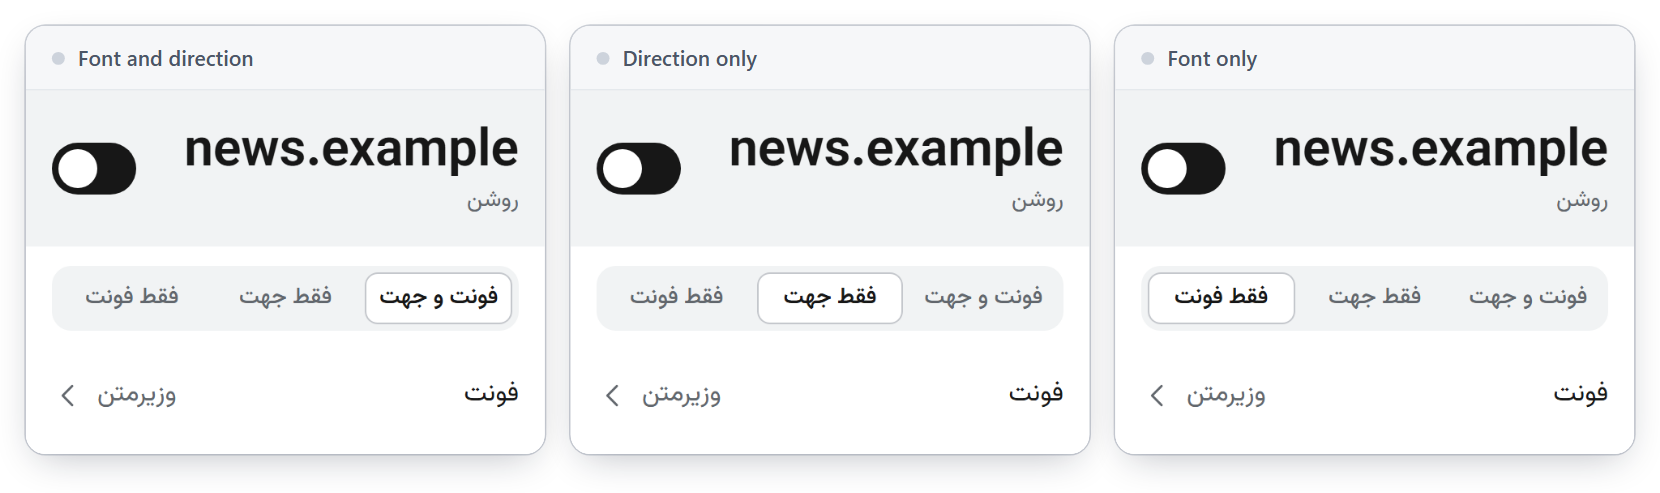
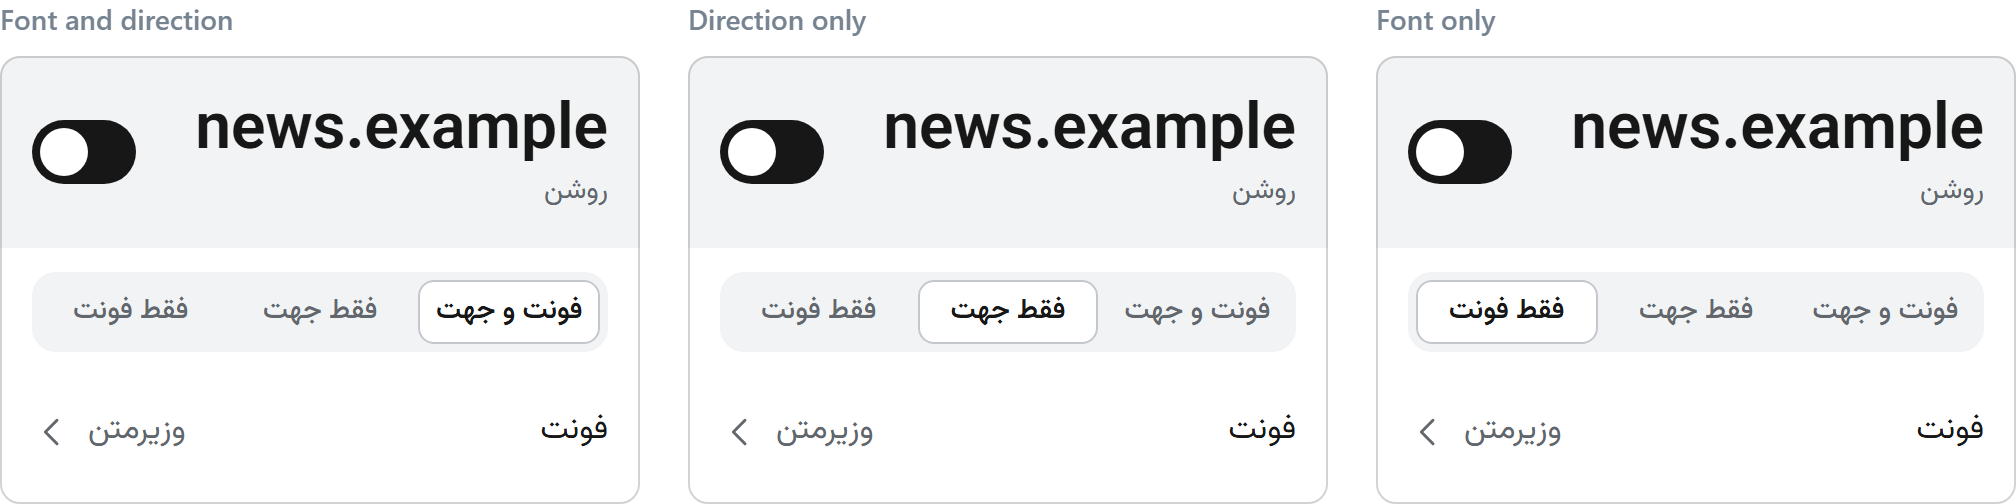
README pictures as plain screenshots: popup in three states and three limits
Each picture is a transparent PNG of real captures with a plain caption
over each one. No tinted box, side bar, shadow, arrow or header strip.
The closed shadow root picture is removed; its sentence stays.

diff --git a/README.md b/README.md
@@ -5,7 +5,7 @@ A Manifest V3 extension for Chromium. It gives Persian text on web pages the Vaz
 </p>
 
 <p align="center">
-  <img src="docs/screenshots/demo-posts.png" width="830" alt="Persian social posts that start with a Latin word and contain emoji, shown before and after the extension. Before, the posts are laid out left to right. After, they read right to left in Vazirmatn.">
+  <img src="docs/screenshots/demo-posts.png" width="640" alt="Persian social posts that start with a Latin word and contain emoji, shown before and after the extension. Before, the posts are laid out left to right. After, they read right to left in Vazirmatn.">
   <br>
   <em>Persian posts that start with a Latin word and contain emoji, before and after.</em>
 </p>
@@ -23,7 +23,7 @@ A Manifest V3 extension for Chromium. It gives Persian text on web pages the Vaz
 This chat keeps its text in open shadow roots. The picture shows its messages and the message box while typing, before and after. Each message follows its own text, and the box turns right to left once it holds Persian.
 
 <p align="center">
-  <img src="docs/screenshots/demo-chat.png" width="830" alt="A chat inside open shadow roots, with messages and a message box that holds text being typed, shown before and after the extension.">
+  <img src="docs/screenshots/demo-chat.png" width="640" alt="A chat inside open shadow roots, with messages and a message box that holds text being typed, shown before and after the extension.">
   <br>
   <em>A chat inside open shadow roots, before and after.</em>
 </p>
@@ -39,7 +39,7 @@ Click the toolbar icon to open the popup. Its switch turns the whole site off (t
 | **فقط فونت** | The font only. The site keeps its own direction. |
 
 <p align="center">
-  <img src="docs/screenshots/popup-site-control.png" width="830" alt="The extension popup. It shows the switch for the current site and, under it, a row with three parts: فونت و جهت, فقط جهت and فقط فونت.">
+  <img src="docs/screenshots/popup-site-control.png" width="1008" alt="The extension popup in its three states: font and direction, direction only, and font only. It shows the switch for the current site and, under it, a row with three parts: فونت و جهت, فقط جهت and فقط فونت.">
   <br>
   <em>The popup: the site switch and, under it, the row with three parts.</em>
 </p>
@@ -81,19 +81,19 @@ Editing source files does not change the loaded copy. After an update, run `npm 
 These pages show where the extension stops, or where it does something you may not expect.
 
 <p align="center">
-  <img src="docs/screenshots/limit-site-name.png" width="830" alt="A search results page. A site's Persian name has moved to the right end of its line, away from the site's icon.">
+  <img src="docs/screenshots/limit-site-name.png" width="400" alt="A search result without the extension and with it. With the extension, a site's Persian name has moved to the right end of its line, away from the site's icon.">
   <br>
   <em>On a search results page, a site's Persian name moves to the right end of its line, away from the site's icon.</em>
 </p>
 
 <p align="center">
-  <img src="docs/screenshots/limit-inline-snippet.png" width="830" alt="A search result with a Persian snippet. The words are in the right order, but the snippet starts at the left edge of its line.">
+  <img src="docs/screenshots/limit-inline-snippet.png" width="610" alt="A search result with a Persian snippet, without the extension and with it. With the extension, the words are in the right order, but the snippet starts at the left edge of its line.">
   <br>
   <em>A search result's snippet reads in the right order but starts at the left edge.</em>
 </p>
 
 <p align="center">
-  <img src="docs/screenshots/limit-wikipedia-references.png" width="830" alt="A reference list on Persian Wikipedia. An English entry that contains Persian digits is right-aligned with its number on the right. A purely English entry stays as it is.">
+  <img src="docs/screenshots/limit-wikipedia-references.png" width="459" alt="A reference list on Persian Wikipedia, without the extension and with it. With the extension, an English entry that contains Persian digits is right-aligned with its number on the right. A purely English entry stays as it is.">
   <br>
   <em>In Persian Wikipedia's reference lists, an English entry that contains Persian digits becomes right-aligned with its number on the right. A purely English entry stays as it is.</em>
   <br>
@@ -101,8 +101,6 @@ These pages show where the extension stops, or where it does something you may n
 </p>
 
 <p align="center">
-  <img src="docs/screenshots/limit-closed-shadow-root.png" width="830" alt="The same Persian card twice. In an open shadow root it is repaired. In a closed shadow root it is out of reach and stays as the page wrote it.">
-  <br>
   <em>The same Persian card in an open shadow root (repaired) and in a closed one (out of reach).</em>
 </p>
 
